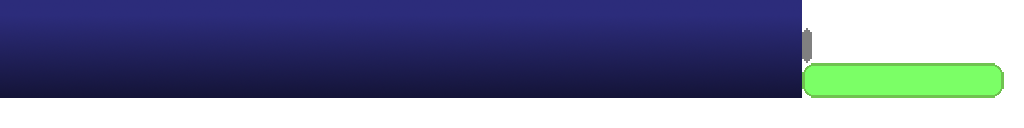
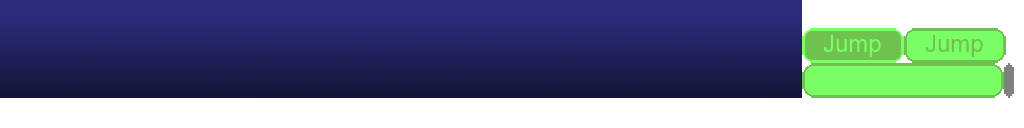
Added Jump Button - Functionality Working

Changed region(s): [[0.7812, 0.2188, 1.0, 0.75]]

diff --git a/An_Ernest_Adventure/src/com/thesis/ernestadventure/UIController.java b/An_Ernest_Adventure/src/com/thesis/ernestadventure/UIController.java
@@ -3,6 +3,7 @@ package com.thesis.ernestadventure;
 import java.util.HashMap;
 
 import com.badlogic.gdx.Gdx;
+import com.badlogic.gdx.math.Vector2;
 import com.esotericsoftware.kryonet.Client;
 
 public class UIController {
@@ -10,10 +11,16 @@ public class UIController {
   private Client client;
   private HashMap<String, Player> players;
   
+  int movePointer;
+  int jumpPointer;
+  
   public UIController(UI ui, Client client, HashMap<String, Player> players) {
     this.ui = ui;
     this.client = client;
     this.players = players;
+    
+    movePointer = 0;
+    jumpPointer = 0;
   }
   
   public void update(float delta) {
@@ -31,14 +38,43 @@ public class UIController {
     // Set Position of Slider
     if (screenX < (Gdx.graphics.getWidth() / 4)+10 &&
         screenX > 0) {
+      movePointer = pointer;
+      
       ui.slider.setPosition(((screenX/((Gdx.graphics.getWidth() / 4.0f)+10))*2)-1);
+    }
+    
+    if (screenX < ((Gdx.graphics.getWidth()/2) + 100) &&
+        screenX > ((Gdx.graphics.getWidth()/2) - 100)) {
+      jumpPointer = pointer;
+      
+      ui.jumpButton.setPressed(true);
+
+      if (players.get(ErnestGame.loginName).getIsGrounded()) {
+        players.get(ErnestGame.loginName)
+            .setVelocity(
+                new Vector2(players.get(ErnestGame.loginName).getVelocity().x,
+                    8.5f));
+        players.get(ErnestGame.loginName).setIsGrounded(false);
+//          Move move = new Move();
+//          move.name = ErnestGame.loginName;
+//          move.velocity = players.get(ErnestGame.loginName).getVelocity();
+//          client.sendUDP(move);
+      }
     }
     return false;
   }
   
   public boolean touchUp(int screenX, int screenY, int pointer, int button) {
     // Set Position of Slider
-    ui.slider.setPosition(0);
+    if (pointer == movePointer) {
+      ui.slider.setPosition(0);
+    }
+    
+    // Set Jumped button to released
+    if (pointer == jumpPointer) {
+      ui.jumpButton.setPressed(false);
+    }
+    
     return false;
   }
   

diff --git a/An_Ernest_Adventure/src/com/thesis/ernestadventure/UIView.java b/An_Ernest_Adventure/src/com/thesis/ernestadventure/UIView.java
@@ -13,8 +13,12 @@ public class UIView {
 
   TextureAtlas UI_Atlas;
   TextureRegion UI_Background; 
+  
   TextureRegion UI_Slider;
   TextureRegion UI_Slider_Selector;
+  
+  TextureRegion UI_Jump_Up;
+  TextureRegion UI_Jump_Down;
   
   private OrthographicCamera camera;
   
@@ -27,14 +31,34 @@ public class UIView {
     UI_Background = UI_Atlas.createSprite("UI_background");
     UI_Slider = UI_Atlas.createSprite("Slide_Bar");
     UI_Slider_Selector = UI_Atlas.createSprite("Slide_Selector");
+    UI_Jump_Up = UI_Atlas.createSprite("Jump_Up");
+    UI_Jump_Down = UI_Atlas.createSprite("Jump_Down");
   }
   
   public void render(float delta) {
+    // Background
     batch.draw(UI_Background, camera.position.x - (camera.viewportWidth/2.0f),
                               camera.position.y - (camera.viewportHeight/2.0f),
                               camera.viewportWidth,
                               camera.viewportHeight*(3.0f/15.0f));
-    batch.draw(UI_Slider, 5, 30, 200, 33);
-    batch.draw(UI_Slider_Selector, 5 + ((ui.slider.getPosition()+1)*100)-4, 30, 8, 33);
+    
+    // Jump Button
+    if (ui.jumpButton.getPressed()) {
+      batch.draw(UI_Jump_Down, camera.position.x-50,
+                              (camera.position.y - (camera.viewportHeight/2.0f))+30,
+                              100, 33);
+    } else {
+      batch.draw(UI_Jump_Up, camera.position.x-50,
+                            (camera.position.y - (camera.viewportHeight/2.0f))+30,
+                            100, 33);
+    }
+    
+    // Slider
+    batch.draw(UI_Slider, (camera.position.x - (camera.viewportWidth/2.0f))+5,
+                          (camera.position.y - (camera.viewportHeight/2.0f))+30,
+                          200, 33);
+    batch.draw(UI_Slider_Selector, (camera.position.x - (camera.viewportWidth/2.0f))+5 + ((ui.slider.getPosition()+1)*100)-4,
+                                   (camera.position.y - (camera.viewportHeight/2.0f))+30,
+                                   8, 33);
   }
 }

diff --git a/An_Ernest_Adventure/src/com/thesis/ernestadventure/GameController.java b/An_Ernest_Adventure/src/com/thesis/ernestadventure/GameController.java
@@ -188,6 +188,8 @@ public class GameController {
   }
 
   public void keyDown(int keycode) {
+//    Gdx.app.log("Key", "" + Gdx.input.isKeyPressed(21));
+    
     // Left Arrow && Right Arrow
     if (Gdx.input.isKeyPressed(21) && Gdx.input.isKeyPressed(22)) {
       players.get(ErnestGame.loginName).setVelocity(
@@ -237,7 +239,7 @@ public class GameController {
   }
 
   public void keyUp(int keycode) {
-    // Gdx.app.log("Key", "" + keycode);
+//     Gdx.app.log("Key", "" + Gdx.input.isKeyPressed(21));
 
     // Left Arrow && Right Arrow
     if (Gdx.input.isKeyPressed(21) && Gdx.input.isKeyPressed(22)) {

diff --git a/An_Ernest_Adventure/src/com/thesis/ernestadventure/UIJumpButton.java b/An_Ernest_Adventure/src/com/thesis/ernestadventure/UIJumpButton.java
@@ -1,0 +1,17 @@
+package com.thesis.ernestadventure;
+
+public class UIJumpButton {
+  boolean pressed;
+  
+  UIJumpButton() {
+    pressed = false;
+  }
+  
+  void setPressed(boolean pressed) {
+    this.pressed = pressed;
+  }
+  
+  boolean getPressed() {
+    return pressed;
+  }
+}

diff --git a/An_Ernest_Adventure/src/com/thesis/ernestadventure/UI.java b/An_Ernest_Adventure/src/com/thesis/ernestadventure/UI.java
@@ -3,9 +3,11 @@ package com.thesis.ernestadventure;
 
 public class UI {
   UISlider slider;
+  UIJumpButton jumpButton;
   
   public UI() {
     slider = new UISlider();
+    jumpButton = new UIJumpButton();
     slider.setPosition(0.0f);
   }
 }
